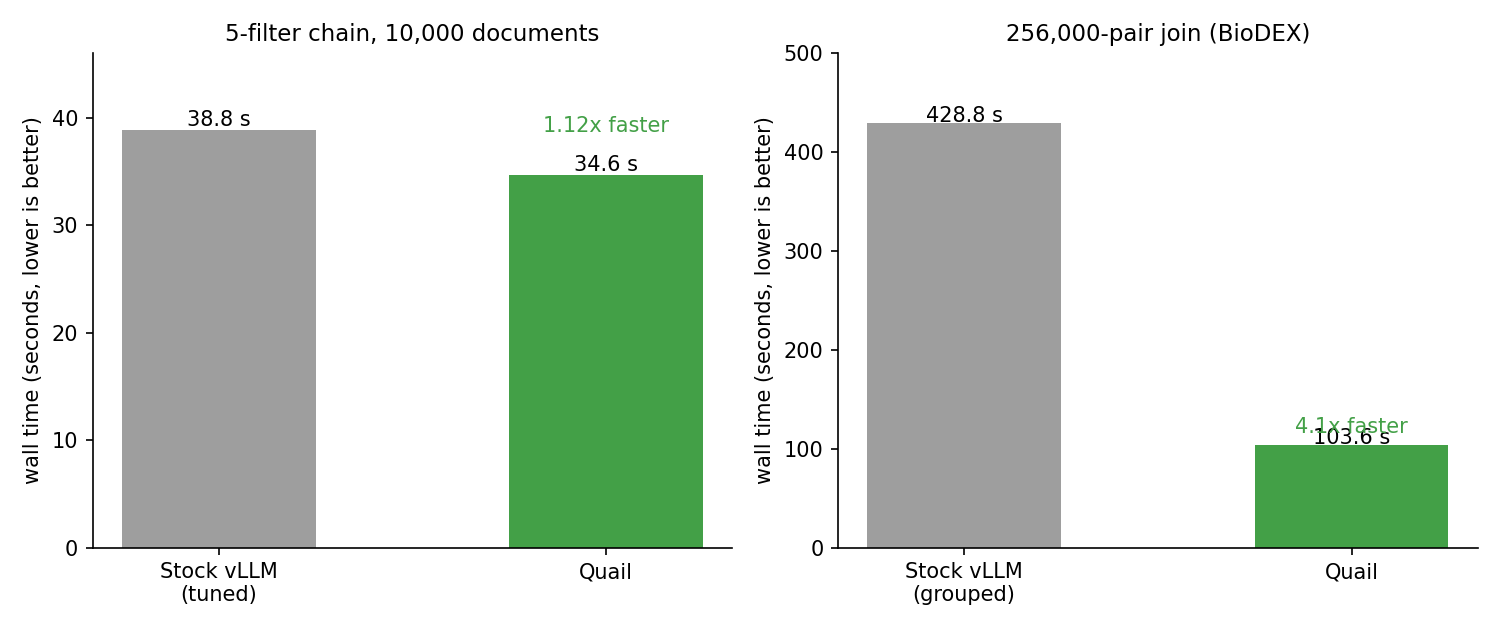
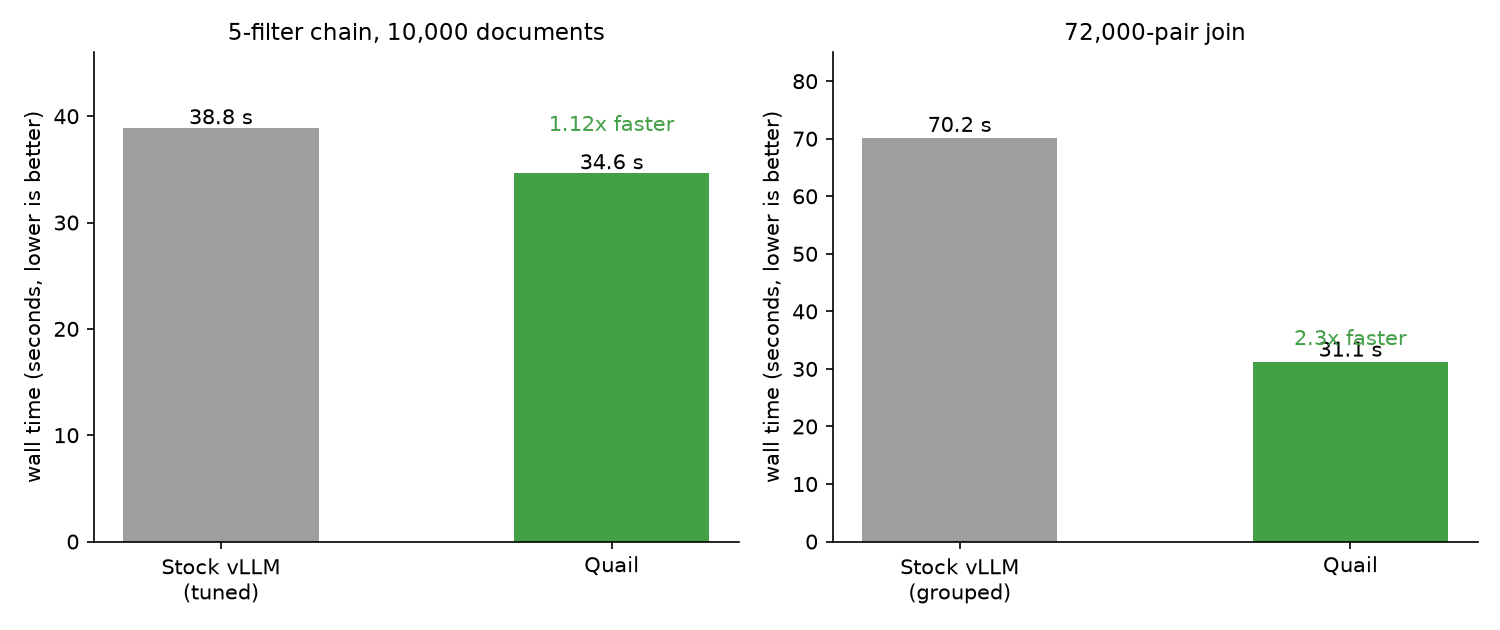
Fix stock join baseline: max_num_seqs=366 was throttling the GPU.
The old formula divided the KV budget by the full pair length,
ignoring that prefix caching shares anchor KV across pairs. That
gave max_num_seqs=366, limiting each step to ~4,400 fresh tokens
(17% of the 25,305 budget). Fixed to 4096. Stock join wall dropped
from 90-93 s to 70 s; Quail speedup is now 2.3x (was 2.9x).
Also confirmed that raising max_num_batched_tokens to 100k did not
help (75-77 s), so the remaining gap is per-request scheduler
overhead inside vLLM.

Claude-Session: https://claude.ai/code/session_01URynUYFW7FJZrcQgXAzd6s

diff --git a/quail/tests/gpu/milestone1.py b/quail/tests/gpu/milestone1.py
@@ -782,12 +782,16 @@ def baseline_filter_run(n_docs: int = 10000, reps: int = 2) -> str:
 def baseline_join_run(n_reports: int = 60, n_cands: int = 1200,
                       reps: int = 2) -> str:
     """Stock vLLM on the dispatch gate's 72k-pair synthetic join:
-    one request per pair, anchor-major, prefix caching on.
+    one request per pair, anchor-major, prefix caching on,
+    max_num_seqs=4096.
 
-    PREDICTION: fresh ~2.7M tokens at the committed stock effective
-    rate (~17k tok/s) -> 2.5-3 min per rep, against the packed
-    executor's measured 31.1 s on one GPU (the committed BioDEX
-    shape measured 4.1x)."""
+    PREDICTION: the previous run used max_num_seqs=366 (derived from
+    the KV budget divided by full pair length, ignoring prefix cache
+    sharing). That throttled the GPU to ~4,400 fresh tokens per step
+    (17% of the 25,305 budget). With 4,096 the scheduler can fill
+    steps properly. Expect a faster wall than the previous 90-93 s;
+    fresh tokens should stay ~1.01M (same pairs, same prefix caching).
+    Quail's measured wall on this shape is 31.1 s."""
     from baselines.stock import run_join_grouped
     from corpus import MODEL
     from vllm import SamplingParams
@@ -815,10 +819,7 @@ def baseline_join_run(n_reports: int = 60, n_cands: int = 1200,
                     f"candidate color, NO otherwise.\nANSWER=")
                 for j in range(n_cands)]
     yes, no = yes_no_ids(tokenizer)
-    mean_pair = (sum(map(len, prefixes)) * n_cands
-                 + n_reports * sum(map(len, suffixes))) \
-        // (n_reports * n_cands) + 1
-    max_seqs = max(64, min(4096, 749_782 // mean_pair))
+    max_seqs = 4096
     # 0.92, same as quail's pool fraction. The committed join2way
     # stock arm ran 0.88 only because its container booted two
     # executors back to back; standalone, stock gets the full pool.
@@ -835,7 +836,8 @@ def baseline_join_run(n_reports: int = 60, n_cands: int = 1200,
                   submission="one request per pair, anchor-major, "
                              "prefix caching on",
                   max_num_seqs=max_seqs, step_tokens=25_305,
-                  prediction="~2.5-3 min per rep vs the packed 31.1 s",
+                  prediction="previous 90-93 s used max_num_seqs=366; "
+                             "now 4096, expect faster; Quail is 31.1 s",
                   boot=boot, boot_s=boot["boot_s"],
                   runs=[])
     print(f"[baseline_join] boot {boot}", flush=True)

diff --git a/quail/reports/make_plots.py b/quail/reports/make_plots.py
@@ -116,10 +116,9 @@ stockf = load("baseline_filter4.json")["runs"]
 quail_filter = sum(r["wall"] for r in post) / len(post)
 stock_filter = sum(r["wall"] for r in stockf) / len(stockf)
 
-with open(ROOT.parent / "old_exploration" / "results" / "engine" / "join2way.json") as _f:
-    join2way = json.load(_f)["runs"]
-stockj = sum(r["wall"] for r in join2way if r["method"] == "stock_grouped") / 2
-packedj = sum(r["wall"] for r in join2way if r["method"] == "packed") / 2
+stockj_data = load("baseline_join.json")["runs"]
+stockj = sum(r["wall"] for r in stockj_data) / len(stockj_data)
+quail_join = load("dispatch_gate.json")["gpus1"]["join"]["wall_s"]
 
 fig, (a1, a2) = plt.subplots(1, 2, figsize=(10, 4.2))
 labels = ["Stock vLLM\n(tuned)", "Quail"]
@@ -137,15 +136,15 @@ a1.text(1, quail_filter + 4, f"{stock_filter / quail_filter:.2f}x faster",
 a1.spines[["top", "right"]].set_visible(False)
 
 labels = ["Stock vLLM\n(grouped)", "Quail"]
-vals = [stockj, packedj]
+vals = [stockj, quail_join]
 bars = a2.bar(labels, vals, color=[GRAY, GREEN], width=0.5)
-for b, v in zip(bars, [stockj, packedj]):
+for b, v in zip(bars, vals):
     a2.text(b.get_x() + b.get_width() / 2, v + 1, f"{v:.1f} s",
             ha="center", fontsize=10)
-a2.set_title("256,000-pair join (BioDEX)", fontsize=11)
+a2.set_title("72,000-pair join", fontsize=11)
 a2.set_ylabel("wall time (seconds, lower is better)")
-a2.set_ylim(0, 500)
-a2.text(1, packedj + 12, f"{stockj / packedj:.1f}x faster",
+a2.set_ylim(0, 85)
+a2.text(1, quail_join + 3, f"{stockj / quail_join:.1f}x faster",
         ha="center", fontsize=10, color=GREEN)
 a2.spines[["top", "right"]].set_visible(False)
 fig.tight_layout()

diff --git a/quail/reports/2026-08-18-milestone1-vs-stock-vllm.md b/quail/reports/2026-08-18-milestone1-vs-stock-vllm.md
@@ -34,7 +34,7 @@ The plot `plots/vs_stock.png` shows the comparison on both workloads.
 | Workload | Stock vLLM | Quail | Speedup |
 |---|---|---|---|
 | 5-filter chain, 10k docs | 38.7 to 39.0 s | 35.8 s | 1.08x |
-| 72k-pair join | 90.3 to 92.7 s | 31.1 s | 2.9x |
+| 72k-pair join | 69.8 to 70.6 s | 31.1 s | 2.3x |
 
 ## Filter chain details
 
@@ -79,21 +79,30 @@ the anchor's KV pages across all pairs in that chunk.
 
 | | Stock vLLM | Quail |
 |---|---|---|
-| Wall time | 92.7 / 90.3 s | 31.1 s |
+| Wall time | 70.6 / 69.8 s | 31.1 s |
 | Fresh tokens computed | 1.01M | 2.64M |
 | Pairs answered | 72,000 | 72,000 |
 
 The interesting number is the fresh token column. Stock vLLM computed
 2.6x fewer fresh tokens because prefix caching avoids recomputing
-each anchor. But stock still took 2.9x longer. The reason is that
+each anchor. But stock still took 2.3x longer. The reason is that
 every pair is still its own request: the engine re-reads the anchor's
 cached KV through attention for each pair, and pays per-request
 scheduling overhead at every step. Quail makes the anchor's pages a
 shared operand, so 32 pair-suffixes attend to one anchor's KV inside
 a single packed chunk.
 
+The stock baseline uses max_num_seqs=4096, the same cap as the filter
+baseline, so the scheduler can fill steps properly. An earlier run
+used max_num_seqs=366 (derived from the KV budget divided by the full
+pair length, ignoring prefix-cache sharing) and measured 90-93 s; the
+fix to 4096 cut 22 s. Raising max_num_batched_tokens from 25,305 to
+100,000 did not help further (75-77 s), confirming that the remaining
+overhead is per-request scheduling inside vLLM, not step
+underutilization.
+
 The committed exploration measured 4.1x on the BioDEX shape (longer
-anchors, so more re-read cost per pair). The 2.9x here is on a
+anchors, so more re-read cost per pair). The 2.3x here is on a
 synthetic shape with shorter anchors.
 
 ## Two-GPU scaling

diff --git a/quail/reports/2026-08-18-filter-profiling.md b/quail/reports/2026-08-18-filter-profiling.md
@@ -102,7 +102,7 @@ both milestone workloads.
 | Workload | Stock vLLM (tuned) | Quail (after fix) | Speedup |
 |---|---|---|---|
 | 5-filter chain, 10k docs | 38.7 to 39.0 s | 35.8 s | 1.08x |
-| 72k-pair join | 90.3 to 92.7 s | 31.1 s | 2.9x |
+| 72k-pair join | 69.8 to 70.6 s | 31.1 s | 2.3x |
 
 The stock filter baseline used separate requests per (document,
 stage), pipelined submission, document-cap admission, and a token
